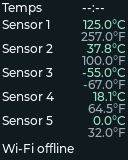
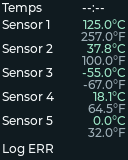
refactor(display): R03-07 (part) one compact decision, blank screen before teardown, checked diagnostic callback, no Past line on the large Overview

Changed region(s): [[0.0, 0.875, 0.5938, 1.0]]

diff --git a/firmware/components/display_service/display_view.cpp b/firmware/components/display_service/display_view.cpp
@@ -57,7 +57,8 @@ uint32_t color(State state) {
 }
 } // namespace
 DisplayView::DisplayView() {
-    const bool compact = lv_display_get_horizontal_resolution(nullptr) <= 128;
+    compact_ = lv_display_get_horizontal_resolution(nullptr) <= 128;
+    const bool compact = compact_;
     for (auto *s : {&overview_, &trends_}) {
         s->root = screen();
         text(label(s->root, compact ? 2 : 10, compact ? 0 : 10, compact ? 76 : 160,
@@ -83,8 +84,9 @@ DisplayView::DisplayView() {
                         : (s == &overview_ ? &lv_font_montserrat_24 : &lv_font_montserrat_14));
             lv_obj_set_style_text_align(s->values[i], LV_TEXT_ALIGN_RIGHT, 0);
             if (s == &overview_) {
-                // The same reading in the other unit, under the main value; hidden unless the
-                // row has a numeric reading, so it never meets the status text on the left.
+                // The same reading in the other unit, under the main value; hidden unless the row
+                // has a numeric reading. A HIGH or LOW row shows both on one line: that works
+                // because the status text is short and left-aligned.
                 s->alts[i] = label(s->root, compact ? 60 : 114, top + (compact ? 12 : 26),
                                    compact ? 66 : 116,
                                    compact ? &lv_font_montserrat_12 : &lv_font_montserrat_14);
@@ -188,7 +190,7 @@ void DisplayView::render(const Registry &registry, const TrendCache &cache,
         cycle_.configure(options.extended, options.overview_seconds, options.trends_seconds, now);
     options_ = options;
     const auto rows = display_rows(registry, options.fahrenheit);
-    const bool compact = lv_display_get_horizontal_resolution(nullptr) <= 128;
+    const bool compact = compact_;
     const bool next_trends = cycle_.trends(now);
     if (compact && configured_ && showing_trends_ && next_trends && now >= last_render_ms_ &&
         now - last_render_ms_ <= int64_t(options.trends_seconds) * 1000)
@@ -270,28 +272,33 @@ void DisplayView::render(const Registry &registry, const TrendCache &cache,
         urgent = "OTA VERIFYING";
     else if (status.ota_state == "invalid" || status.ota_state == "aborted")
         urgent = "OTA ROLLBACK";
-    std::string footer =
-        "Wi-Fi " + status.wifi + (status.logging ? " | Log OK" : " | Log ERR") + "\n" +
-        (urgent.empty() ? "Past " + std::to_string(options.lookback_minutes) + " min" : urgent);
-    if (compact) {
+    const std::string status_line =
+        "Wi-Fi " + status.wifi + (status.logging ? " | Log OK" : " | Log ERR");
+    // The Overview has no lookback window to describe, so on the large screen its second line
+    // appears only for an urgent condition; the Trends screen shows "Past N min" otherwise.
+    std::string overview_footer, trends_footer;
+    if (compact_) {
         // One line only: an urgent condition, else a logging failure (it must be visible on the
-        // small screen), else the Wi-Fi state.
-        if (!urgent.empty())
-            footer = urgent;
-        else if (!status.logging)
-            footer = "Log ERR";
-        else
-            footer = "Wi-Fi " + status.wifi;
+        // small screen), else the Wi-Fi state. Trends shows its lookback and chart position
+        // instead of the Wi-Fi state when nothing needs attention.
+        overview_footer = !urgent.empty()   ? urgent
+                          : !status.logging ? "Log ERR"
+                                            : "Wi-Fi " + status.wifi;
+        trends_footer = overview_footer.rfind("Wi-Fi ", 0) == 0
+                            ? std::to_string(options.lookback_minutes) + "m  " +
+                                  std::to_string(compact_position + 1) + "/" +
+                                  std::to_string(std::max<size_t>(compact_count, 1))
+                            : overview_footer;
+    } else {
+        overview_footer = urgent.empty() ? status_line : status_line + "\n" + urgent;
+        trends_footer =
+            status_line + "\n" +
+            (urgent.empty() ? "Past " + std::to_string(options.lookback_minutes) + " min" : urgent);
     }
-    for (auto *s : {&overview_, &trends_}) {
-        text(s->time, clock);
-        if (compact && s == &trends_ && footer.rfind("Wi-Fi ", 0) == 0)
-            text(s->footer, std::to_string(options.lookback_minutes) + "m  " +
-                                std::to_string(compact_position + 1) + "/" +
-                                std::to_string(std::max<size_t>(compact_count, 1)));
-        else
-            text(s->footer, footer);
-    }
+    text(overview_.time, clock);
+    text(trends_.time, clock);
+    text(overview_.footer, overview_footer);
+    text(trends_.footer, trends_footer);
     showing_trends_ = next_trends;
     auto *desired = showing_trends_ ? trends_.root : overview_.root;
     if (lv_screen_active() != desired)
@@ -299,7 +306,7 @@ void DisplayView::render(const Registry &registry, const TrendCache &cache,
 }
 void DisplayView::provisioning(const std::string &ssid, const std::string &wifi_key,
                                const std::string &owner_code, bool owner_page_requested) {
-    const bool compact = lv_display_get_horizontal_resolution(nullptr) <= 128;
+    const bool compact = compact_;
     const bool has_owner_code = !owner_code.empty();
     // The compact screen alternates between the Wi-Fi page and the owner-code page, but only when
     // there is an owner code to show (an enrolled device has none).

diff --git a/firmware/components/display_service/display_runtime.cpp b/firmware/components/display_service/display_runtime.cpp
@@ -319,11 +319,18 @@ bool DisplayRuntime::initialize() {
     }
 #if CONFIG_MONITOR_LCD_FLUSH_DIAG
     {
+        // This replaces esp_lvgl_port 2.9.0's transfer-done callback, which only calls
+        // lv_display_flush_ready(); flush_diag_done does the same after timestamping. If a port
+        // upgrade makes its callback do more, this diagnostic would diverge from it.
         const esp_lcd_panel_io_callbacks_t callbacks = {.on_color_trans_done = flush_diag_done};
-        esp_lcd_panel_io_register_event_callbacks(panel_io_, &callbacks, display_);
-        lv_display_add_event_cb(display_, flush_diag_start_event, LV_EVENT_FLUSH_START, nullptr);
-        lv_display_add_event_cb(display_, flush_diag_invalidate_event, LV_EVENT_INVALIDATE_AREA,
-                                nullptr);
+        if (esp_lcd_panel_io_register_event_callbacks(panel_io_, &callbacks, display_) != ESP_OK) {
+            ESP_LOGW(tag, "Flush diagnostic callback not installed; the port's own is kept");
+        } else {
+            lv_display_add_event_cb(display_, flush_diag_start_event, LV_EVENT_FLUSH_START,
+                                    nullptr);
+            lv_display_add_event_cb(display_, flush_diag_invalidate_event, LV_EVENT_INVALIDATE_AREA,
+                                    nullptr);
+        }
     }
 #endif
     if (!lvgl_port_lock(1000)) {
@@ -418,6 +425,9 @@ void DisplayRuntime::deinitialize() {
             lv_obj_delete(diagnostic_screen_);
             diagnostic_screen_ = nullptr;
         }
+        // ~DisplayView needs another screen active: it deletes the screens it created.
+        if (view_ && display_)
+            lv_screen_load(lv_obj_create(nullptr));
         view_.reset();
         if (display_) {
             lvgl_port_remove_disp(display_);

diff --git a/firmware/display_tests/display_tests.cpp b/firmware/display_tests/display_tests.cpp
@@ -75,6 +75,8 @@ int main(int argc, char **argv) {
             registry.sample(fake_readings(count), 0);
             view.render(registry, cache, options, status, 0);
             save("overview-" + std::to_string(count));
+            // The large Overview has no lookback window to describe: no "Past N min" there.
+            CHECK(visible_text(lv_screen_active()).find("Past") == std::string::npos);
         }
         {
             // DS18B20 extremes must fit the same 7-character value field in both scales.

diff --git a/firmware/components/display_service/include/display_view.hpp b/firmware/components/display_service/include/display_view.hpp
@@ -31,6 +31,8 @@ class DisplayView {
     static constexpr size_t setup_slot_count = 11;
     lv_obj_t *setup_ = nullptr;
     std::array<lv_obj_t *, setup_slot_count> setup_slots_{};
+    // Decided once from the display resolution when the view is built.
+    bool compact_ = false;
     DisplayCycle cycle_;
     DisplayOptions options_;
     bool configured_ = false, showing_trends_ = false;
